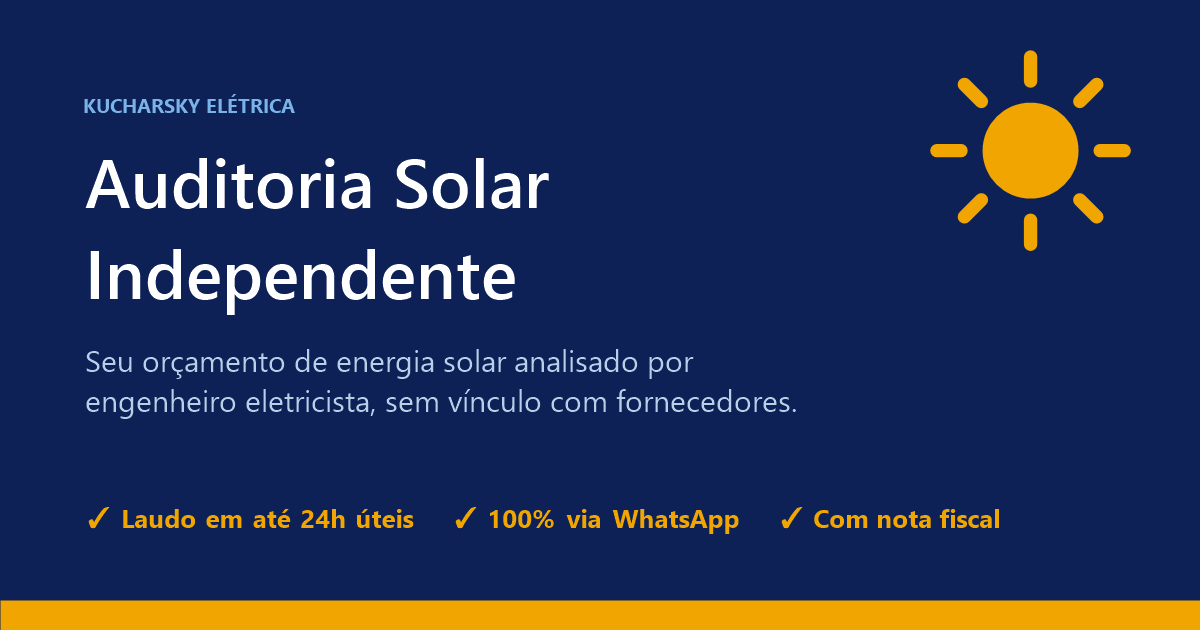
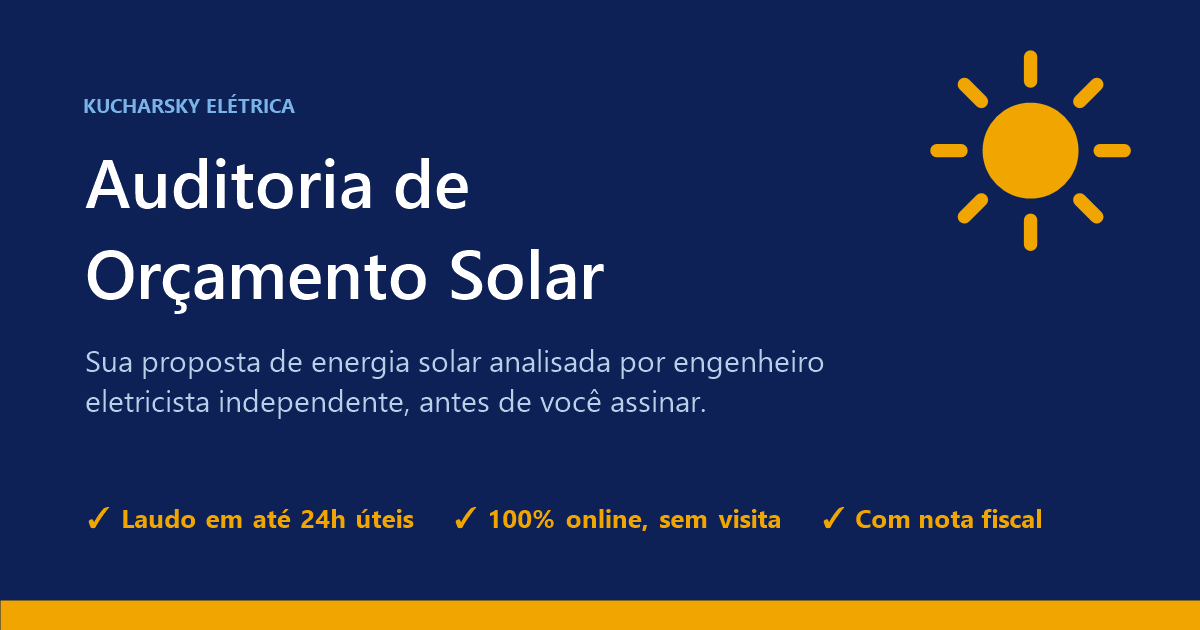
Deixa claro que a auditoria é da proposta (documental), sem visita ou vistoria

diff --git a/index.html b/index.html
@@ -3,8 +3,8 @@
 <head>
 <meta charset="UTF-8">
 <meta name="viewport" content="width=device-width, initial-scale=1.0">
-<title>Auditoria Solar Independente — Kucharsky Elétrica</title>
-<meta name="description" content="Análise técnica e mercadológica independente de orçamentos de energia solar. Laudo em até 24h úteis. Sem vínculo com fornecedores.">
+<title>Auditoria de Orçamento Solar — Kucharsky Elétrica</title>
+<meta name="description" content="Análise técnica e mercadológica independente da proposta de energia solar que você recebeu. 100% documental, sem visita. Laudo em até 24h úteis. Sem vínculo com fornecedores.">
 <link rel="canonical" href="https://auditoria.kucharskyeletrica.com/">
 <meta name="theme-color" content="#0d2157">
 
@@ -17,12 +17,12 @@
 <meta property="og:locale" content="pt_BR">
 <meta property="og:site_name" content="Kucharsky Elétrica">
 <meta property="og:url" content="https://auditoria.kucharskyeletrica.com/">
-<meta property="og:title" content="Auditoria Solar Independente — Kucharsky Elétrica">
-<meta property="og:description" content="Seu orçamento de energia solar analisado por engenheiro eletricista, sem vínculo com fornecedores. Laudo em até 24h úteis.">
+<meta property="og:title" content="Auditoria de Orçamento Solar — Kucharsky Elétrica">
+<meta property="og:description" content="Recebeu uma proposta de energia solar? Um engenheiro eletricista independente analisa o orçamento antes de você assinar. 100% online, laudo em até 24h úteis.">
 <meta property="og:image" content="https://auditoria.kucharskyeletrica.com/og-image.png">
 <meta property="og:image:width" content="1200">
 <meta property="og:image:height" content="630">
-<meta property="og:image:alt" content="Auditoria Solar Independente — Kucharsky Elétrica">
+<meta property="og:image:alt" content="Auditoria de Orçamento Solar — Kucharsky Elétrica">
 <meta name="twitter:card" content="summary_large_image">
 
 <!-- Dados estruturados para o Google -->
@@ -30,18 +30,18 @@
 {
   "@context": "https://schema.org",
   "@type": "ProfessionalService",
-  "name": "Kucharsky Elétrica — Auditoria Solar Independente",
+  "name": "Kucharsky Elétrica — Auditoria de Orçamento Solar",
   "legalName": "Kucharsky Elétrica Ltda",
   "taxID": "66.766.392/0001-02",
   "url": "https://auditoria.kucharskyeletrica.com/",
   "image": "https://auditoria.kucharskyeletrica.com/og-image.png",
   "telephone": "+55 47 99646-3350",
-  "description": "Análise técnica e mercadológica independente de orçamentos de energia solar, com laudo em até 24h úteis.",
+  "description": "Análise técnica e mercadológica independente, exclusivamente documental, de propostas e orçamentos de energia solar, com laudo em até 24h úteis. Não inclui visita técnica.",
   "priceRange": "R$ 99 – R$ 299",
   "makesOffer": [
-    { "@type": "Offer", "name": "Auditoria Solar Residencial", "price": "99", "priceCurrency": "BRL" },
-    { "@type": "Offer", "name": "Auditoria Solar Comercial", "price": "199", "priceCurrency": "BRL" },
-    { "@type": "Offer", "name": "Auditoria Solar Industrial", "price": "299", "priceCurrency": "BRL" }
+    { "@type": "Offer", "name": "Análise de orçamento solar — sistema residencial (até ~10 kWp)", "price": "99", "priceCurrency": "BRL" },
+    { "@type": "Offer", "name": "Análise de orçamento solar — sistema comercial", "price": "199", "priceCurrency": "BRL" },
+    { "@type": "Offer", "name": "Análise de orçamento solar — sistema industrial", "price": "299", "priceCurrency": "BRL" }
   ]
 }
 </script>
@@ -79,6 +79,16 @@
   .step-num { font-size: 11px; letter-spacing: 1px; text-transform: uppercase; color: #7ab3e8; margin-bottom: 10px; }
   .how-card h3 { font-size: 16px; font-weight: 600; color: #0d2157; margin-bottom: 10px; }
   .how-card p { font-size: 14px; color: #5a6a88; line-height: 1.65; }
+
+  .scope-grid { display: grid; grid-template-columns: repeat(auto-fit, minmax(280px, 1fr)); gap: 20px; margin-top: 28px; }
+  .scope-card { border-radius: 10px; padding: 24px 22px; border: 1px solid #e4eaf4; }
+  .scope-card h3 { font-size: 16px; font-weight: 600; color: #0d2157; margin-bottom: 12px; }
+  .scope-card ul { list-style: none; }
+  .scope-card li { font-size: 14px; color: #5a6a88; line-height: 1.6; padding-left: 24px; position: relative; margin-bottom: 8px; }
+  .scope-card li::before { position: absolute; left: 0; font-weight: 700; }
+  .scope-yes li::before { content: '✓'; color: #1e9e5a; }
+  .scope-no { background: #fafbfd; }
+  .scope-no li::before { content: '✕'; color: #c0392b; }
 
   .divider { border: none; border-top: 1px solid #e4eaf4; margin: 0 24px; }
 
@@ -137,13 +147,13 @@
 
 <!-- HERO -->
 <section class="hero">
-  <div class="hero-eyebrow">Kucharsky Elétrica — Auditoria Solar Independente</div>
+  <div class="hero-eyebrow">Kucharsky Elétrica — Auditoria de Orçamento Solar</div>
   <h1>Antes de assinar o contrato de energia solar, certifique-se de que o orçamento está correto.</h1>
-  <p>Análise técnica e mercadológica independente realizada por engenheiro eletricista. Sem vínculo com fornecedores. Sem conflito de interesse.</p>
-  <a href="https://wa.me/5547996463350?text=Olá!%20Gostaria%20de%20solicitar%20uma%20auditoria%20solar." class="btn-cta">Enviar orçamento para análise →</a>
+  <p>Análise técnica e mercadológica independente da proposta que você recebeu, realizada por engenheiro eletricista. Sem vínculo com fornecedores. Sem conflito de interesse.</p>
+  <a href="https://wa.me/5547996463350?text=Ol%C3%A1!%20Gostaria%20de%20enviar%20uma%20proposta%20de%20energia%20solar%20para%20an%C3%A1lise." class="btn-cta">Enviar orçamento para análise →</a>
   <div class="badge-strip">
     <span class="badge">Laudo entregue em até 24h úteis</span>
-    <span class="badge">100% online via WhatsApp</span>
+    <span class="badge">100% online, sem visita</span>
     <span class="badge">Nota Fiscal emitida</span>
   </div>
 </section>
@@ -157,7 +167,7 @@
     <strong>Antes de investir entre R$ 15.000 e R$ 150.000 em um sistema solar, você tem o direito de saber:</strong><br><br>
     O sistema foi dimensionado corretamente para o seu consumo real? O preço cobrado por Watt instalado é compatível com o mercado? O tempo de retorno do investimento (payback) é tecnicamente viável?
   </div>
-  <p>Nossa auditoria responde a essas perguntas com base em dados técnicos e mercadológicos, de forma isenta — sem nenhum vínculo com fabricantes ou instaladores.</p>
+  <p>Nossa auditoria de orçamento responde a essas perguntas analisando a proposta comercial com base em dados técnicos e mercadológicos, de forma isenta — sem nenhum vínculo com fabricantes ou instaladores.</p>
 </div>
 
 <hr class="divider">
@@ -174,8 +184,8 @@
     </div>
     <div class="how-card">
       <div class="step-num">Etapa 02</div>
-      <h3>Análise técnica</h3>
-      <p>Verificamos o dimensionamento do sistema, a qualidade dos equipamentos e o preço por Watt praticado na sua região.</p>
+      <h3>Análise da proposta</h3>
+      <p>Verificamos, na proposta, o dimensionamento do sistema, a qualidade dos equipamentos ofertados e o preço por Watt praticado na sua região.</p>
     </div>
     <div class="how-card">
       <div class="step-num">Etapa 03</div>
@@ -183,41 +193,62 @@
       <p>Você recebe o laudo completo com veredito técnico (Verde, Amarelo ou Vermelho) e orientações objetivas para a negociação.</p>
     </div>
   </div>
+
+  <div class="scope-grid">
+    <div class="scope-card scope-yes">
+      <h3>O que analisamos</h3>
+      <ul>
+        <li>A proposta comercial / orçamento que você recebeu</li>
+        <li>Dimensionamento do sistema frente ao consumo da sua conta de energia</li>
+        <li>Equipamentos ofertados (módulos, inversor) e garantias informadas</li>
+        <li>Preço por Watt comparado ao mercado da sua região</li>
+        <li>Viabilidade do payback apresentado</li>
+      </ul>
+    </div>
+    <div class="scope-card scope-no">
+      <h3>O que não está incluso</h3>
+      <ul>
+        <li>Visita técnica ao imóvel ou ao local da instalação</li>
+        <li>Vistoria ou inspeção de sistemas já instalados</li>
+        <li>Projeto elétrico, execução ou homologação junto à concessionária</li>
+      </ul>
+    </div>
+  </div>
 </div>
 
 <!-- PREÇOS -->
 <div class="pricing">
   <div class="pricing-inner">
-    <h2>Valores por categoria de instalação</h2>
-    <p class="pricing-sub">Análise de um orçamento principal inclusa. Orçamentos adicionais para comparativo têm custo incremental.</p>
+    <h2>Valores por porte do sistema orçado</h2>
+    <p class="pricing-sub">A categoria é definida pelo porte do sistema descrito na proposta. Análise de um orçamento principal inclusa; orçamentos adicionais para comparativo têm custo incremental.</p>
     <div class="price-grid">
       <div class="price-card featured">
         <div class="featured-badge">Mais procurado</div>
         <div class="price-tag">Categoria 01</div>
-        <div class="price-type">Residencial</div>
-        <div class="price-desc">Sistemas até ~10 kWp</div>
+        <div class="price-type">Sistema residencial</div>
+        <div class="price-desc">Propostas de até ~10 kWp</div>
         <div class="price-value">R$ 99</div>
-        <div class="price-period">por laudo</div>
+        <div class="price-period">por proposta analisada</div>
         <div class="price-extra">+ R$ 30 por orçamento comparativo adicional<br>Reanálise: R$ 30 (válido por 7 dias)</div>
-        <a href="https://wa.me/5547996463350?text=Ol%C3%A1!%20Gostaria%20de%20solicitar%20uma%20auditoria%20solar%20Residencial." class="btn-card">Quero a auditoria Residencial</a>
+        <a href="https://wa.me/5547996463350?text=Ol%C3%A1!%20Gostaria%20de%20enviar%20uma%20proposta%20de%20energia%20solar%20(sistema%20residencial)%20para%20an%C3%A1lise." class="btn-card">Enviar proposta residencial</a>
       </div>
       <div class="price-card">
         <div class="price-tag">Categoria 02</div>
-        <div class="price-type">Comercial</div>
-        <div class="price-desc">Sistemas de médio porte</div>
+        <div class="price-type">Sistema comercial</div>
+        <div class="price-desc">Propostas de médio porte</div>
         <div class="price-value">R$ 199</div>
-        <div class="price-period">por laudo</div>
+        <div class="price-period">por proposta analisada</div>
         <div class="price-extra">+ R$ 60 por orçamento comparativo adicional<br>Reanálise: R$ 99 (válido por 7 dias)</div>
-        <a href="https://wa.me/5547996463350?text=Ol%C3%A1!%20Gostaria%20de%20solicitar%20uma%20auditoria%20solar%20Comercial." class="btn-card">Quero a auditoria Comercial</a>
+        <a href="https://wa.me/5547996463350?text=Ol%C3%A1!%20Gostaria%20de%20enviar%20uma%20proposta%20de%20energia%20solar%20(sistema%20comercial)%20para%20an%C3%A1lise." class="btn-card">Enviar proposta comercial</a>
       </div>
       <div class="price-card">
         <div class="price-tag">Categoria 03</div>
-        <div class="price-type">Industrial</div>
-        <div class="price-desc">Sistemas de grande porte</div>
+        <div class="price-type">Sistema industrial</div>
+        <div class="price-desc">Propostas de grande porte</div>
         <div class="price-value">R$ 299</div>
-        <div class="price-period">por laudo</div>
+        <div class="price-period">por proposta analisada</div>
         <div class="price-extra">+ R$ 90 por orçamento comparativo adicional<br>Reanálise: R$ 149 (válido por 7 dias)</div>
-        <a href="https://wa.me/5547996463350?text=Ol%C3%A1!%20Gostaria%20de%20solicitar%20uma%20auditoria%20solar%20Industrial." class="btn-card">Quero a auditoria Industrial</a>
+        <a href="https://wa.me/5547996463350?text=Ol%C3%A1!%20Gostaria%20de%20enviar%20uma%20proposta%20de%20energia%20solar%20(sistema%20industrial)%20para%20an%C3%A1lise." class="btn-card">Enviar proposta industrial</a>
       </div>
     </div>
   </div>
@@ -261,19 +292,19 @@
 
 <!-- CTA FINAL -->
 <section class="cta-bottom">
-  <h2>Solicite sua auditoria agora</h2>
+  <h2>Envie sua proposta para análise</h2>
   <p>Envie o PDF do orçamento pelo WhatsApp e receba o laudo técnico independente em até 24 horas úteis.</p>
-  <a href="https://wa.me/5547996463350?text=Olá!%20Gostaria%20de%20solicitar%20uma%20auditoria%20solar." class="btn-cta">Iniciar auditoria pelo WhatsApp →</a>
+  <a href="https://wa.me/5547996463350?text=Ol%C3%A1!%20Gostaria%20de%20enviar%20uma%20proposta%20de%20energia%20solar%20para%20an%C3%A1lise." class="btn-cta">Iniciar auditoria pelo WhatsApp →</a>
 </section>
 
 <!-- FOOTER -->
 <footer>
   <p>Kucharsky Elétrica Ltda — CNPJ 66.766.392/0001-02<br>
-  Serviço de consultoria analítico-mercadológica. Não constitui projeto executivo de engenharia.</p>
+  Serviço de consultoria analítico-mercadológica, realizado exclusivamente sobre a documentação enviada pelo cliente.<br>Não inclui visita técnica, vistoria ou inspeção de instalações. Não constitui projeto executivo de engenharia.</p>
 </footer>
 
 <!-- BOTÃO FLUTUANTE WHATSAPP -->
-<a href="https://wa.me/5547996463350?text=Ol%C3%A1!%20Gostaria%20de%20solicitar%20uma%20auditoria%20solar." class="wa-float" aria-label="Falar no WhatsApp">
+<a href="https://wa.me/5547996463350?text=Ol%C3%A1!%20Gostaria%20de%20enviar%20uma%20proposta%20de%20energia%20solar%20para%20an%C3%A1lise." class="wa-float" aria-label="Falar no WhatsApp">
   <svg viewBox="0 0 32 32" aria-hidden="true"><path d="M16.04 3C8.86 3 3.04 8.82 3.04 16c0 2.29.6 4.53 1.74 6.5L3 29l6.68-1.75A12.95 12.95 0 0 0 16.04 29C23.22 29 29 23.18 29 16S23.22 3 16.04 3zm0 23.8c-2.04 0-4.03-.55-5.77-1.58l-.41-.25-3.96 1.04 1.06-3.86-.27-.4A10.77 10.77 0 0 1 5.24 16c0-5.95 4.85-10.8 10.8-10.8 5.95 0 10.76 4.85 10.76 10.8 0 5.95-4.81 10.8-10.76 10.8zm5.92-8.08c-.32-.16-1.92-.95-2.22-1.06-.3-.11-.51-.16-.73.16-.22.32-.84 1.06-1.03 1.27-.19.22-.38.24-.7.08-.32-.16-1.36-.5-2.6-1.6-.96-.86-1.6-1.91-1.8-2.23-.19-.32-.02-.5.14-.66.15-.14.32-.38.49-.57.16-.19.22-.32.32-.54.11-.22.05-.4-.03-.57-.08-.16-.73-1.75-1-2.4-.26-.63-.53-.54-.73-.55h-.62c-.22 0-.57.08-.86.4-.3.32-1.13 1.1-1.13 2.69 0 1.58 1.16 3.12 1.32 3.33.16.22 2.28 3.48 5.52 4.88.77.33 1.37.53 1.84.68.77.25 1.48.21 2.03.13.62-.09 1.92-.78 2.19-1.54.27-.76.27-1.41.19-1.54-.08-.14-.3-.22-.62-.38z"/></svg>
 </a>
 
